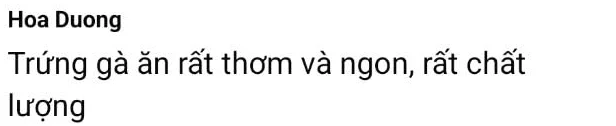
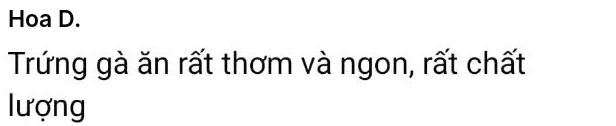
Add files via upload

Changed region(s): [[0.0, 0.0714, 0.2159, 0.2619]]

diff --git a/index.html b/index.html
@@ -236,7 +236,7 @@
           <li class="kh-card">
             <div class="kh-shot kh-shot--long">
               <img src="assets/kh-matt-hoang.webp" width="502" height="978" loading="lazy" decoding="async"
-                   alt="Matt Hoang, 5 sao: Là khách quen được một thời gian đồng thời là người có niềm đam mê với trứng hơi vượt mức trung bình, tôi xin phép để lại vài lời nhận xét... Có người sành rượu, có người sành cafe, còn tôi đứng trước chảo trứng vs thái độ nghiêm túc như master chép. Trứng luộc phải ngon, trứng ốp phải thơm, còn lòng đào thì phải vàng cam óng ánh, để phải muốn vét nốt miếng bánh mì cuối cùng. Viết vài dòng vì shop xứng đáng được nhiều người biết đến hơn. Khách như tôi ko giỏi nói lời hoa mỹ, chỉ giỏi lúc hết là mua. Mà với một người mê trứng, đó chính là lời khen có sức mạnh nhất! PS: Shop nhớ để phần cho em nha!">
+                   alt="Matt H., 5 sao: Là khách quen được một thời gian đồng thời là người có niềm đam mê với trứng hơi vượt mức trung bình, tôi xin phép để lại vài lời nhận xét... Có người sành rượu, có người sành cafe, còn tôi đứng trước chảo trứng vs thái độ nghiêm túc như master chép. Trứng luộc phải ngon, trứng ốp phải thơm, còn lòng đào thì phải vàng cam óng ánh, để phải muốn vét nốt miếng bánh mì cuối cùng. Viết vài dòng vì shop xứng đáng được nhiều người biết đến hơn. Khách như tôi ko giỏi nói lời hoa mỹ, chỉ giỏi lúc hết là mua. Mà với một người mê trứng, đó chính là lời khen có sức mạnh nhất! PS: Shop nhớ để phần cho em nha!">
               <div class="kh-fade"><button class="kh-more" type="button" data-full="assets/kh-matt-hoang.webp">Xem đầy đủ</button></div>
             </div>
             <p class="kh-src">Đánh giá trên Google</p>
@@ -244,35 +244,35 @@
           <li class="kh-card">
             <div class="kh-shot">
               <img src="assets/kh-thu-dieu.webp" width="616" height="467" loading="lazy" decoding="async"
-                   alt="Thu Dieu: Nhà mình chắc là khách hàng top đầu của trứng Navahi. Trứng đỏ lòng, ăn rất thơm, ngậy. Nhà mình mỗi tháng ăn phải tầm 150q vì gia đình đạo trứng nên phải chọn trứng rất kỹ. Mình cũng đã mua của rất nhiều bên cung cấp trứng gà rồi và bây giờ thành khách trung thành của Navahi vì trứng gà nuôi thả ăn vẫn khác hẳn trứng gà công nghiệp nuôi theo công nghệ này công nghệ kia">
+                   alt="Thu D.: Nhà mình chắc là khách hàng top đầu của trứng Navahi. Trứng đỏ lòng, ăn rất thơm, ngậy. Nhà mình mỗi tháng ăn phải tầm 150q vì gia đình đạo trứng nên phải chọn trứng rất kỹ. Mình cũng đã mua của rất nhiều bên cung cấp trứng gà rồi và bây giờ thành khách trung thành của Navahi vì trứng gà nuôi thả ăn vẫn khác hẳn trứng gà công nghiệp nuôi theo công nghệ này công nghệ kia">
             </div>
             <p class="kh-src"><a href="https://www.facebook.com/share/p/19RdDZZMya/" target="_blank" rel="noopener">Bình luận trên Facebook · Xem bài gốc</a></p>
           </li>
           <li class="kh-card">
             <div class="kh-shot">
               <img src="assets/kh-ha-tran.webp" width="616" height="257" loading="lazy" decoding="async"
-                   alt="Hà Trần: Trứng lòng đỏ vàng óng, thơm và đậm vị tự nhiên, ăn là cảm nhận ngay sự khác biệt. Chúc Nahifam ngày càng phát triển, luôn mang những sản phẩm sạch và chất lượng đến mọi gia đình nhé!">
+                   alt="Hà T.: Trứng lòng đỏ vàng óng, thơm và đậm vị tự nhiên, ăn là cảm nhận ngay sự khác biệt. Chúc Nahifam ngày càng phát triển, luôn mang những sản phẩm sạch và chất lượng đến mọi gia đình nhé!">
             </div>
             <p class="kh-src"><a href="https://www.facebook.com/share/p/19RdDZZMya/" target="_blank" rel="noopener">Bình luận trên Facebook · Xem bài gốc</a></p>
           </li>
           <li class="kh-card">
             <div class="kh-shot">
               <img src="assets/kh-linh-linh.webp" width="616" height="216" loading="lazy" decoding="async"
-                   alt="Linh Linh: Nhà mình ăn rồi, công nhận trứng thơm, béo, lòng đỏ đậm vị hơn hẳn. Ăn quen trứng ngon- xịn rồi giờ khó quay lại trứng thường lắm ạ">
+                   alt="Linh L.: Nhà mình ăn rồi, công nhận trứng thơm, béo, lòng đỏ đậm vị hơn hẳn. Ăn quen trứng ngon- xịn rồi giờ khó quay lại trứng thường lắm ạ">
             </div>
             <p class="kh-src"><a href="https://www.facebook.com/share/p/19RdDZZMya/" target="_blank" rel="noopener">Bình luận trên Facebook · Xem bài gốc</a></p>
           </li>
           <li class="kh-card">
             <div class="kh-shot">
               <img src="assets/kh-hoa-duong.webp" width="616" height="126" loading="lazy" decoding="async"
-                   alt="Hoa Duong: Trứng gà ăn rất thơm và ngon, rất chất lượng">
+                   alt="Hoa D.: Trứng gà ăn rất thơm và ngon, rất chất lượng">
             </div>
             <p class="kh-src"><a href="https://www.facebook.com/share/p/19RdDZZMya/" target="_blank" rel="noopener">Bình luận trên Facebook · Xem bài gốc</a></p>
           </li>
           <li class="kh-card">
             <div class="kh-shot">
               <img src="assets/kh-huy-doo.webp" width="616" height="178" loading="lazy" decoding="async"
-                   alt="Huy Doo: Lần đầu đặt trứng đc shop tặng thêm chuối, ko biết shop lãi được bao nhiêu nhưng khách thích ạ">
+                   alt="Huy D.: Lần đầu đặt trứng đc shop tặng thêm chuối, ko biết shop lãi được bao nhiêu nhưng khách thích ạ">
             </div>
             <p class="kh-src"><a href="https://www.facebook.com/share/p/19RdDZZMya/" target="_blank" rel="noopener">Bình luận trên Facebook · Xem bài gốc</a></p>
           </li>

diff --git a/navahi.js b/navahi.js
@@ -148,7 +148,7 @@
   });
 })();
 
-/* Xem đầy đủ nhận xét dài (review Google của Matt Hoang) */
+/* Xem đầy đủ nhận xét dài (thẻ có nút "Xem đầy đủ") */
 (function(){
   var dlg = document.getElementById('kh-dialog'),
       img = document.getElementById('kh-dialog-img');
